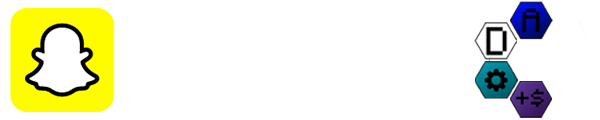
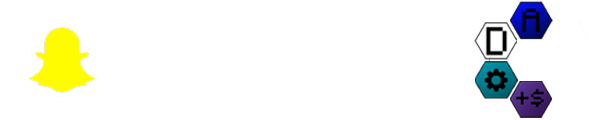
Hid useless info and changed snapchat image

Changed region(s): [[0.0, 0.05, 0.21, 0.95]]

diff --git a/catagories/Android/index.html b/catagories/Android/index.html
@@ -19,7 +19,7 @@
   <body>
     <a style="color:white; font-family:verdana;" href="../../" title="Home" class="home"><img src="../../images/darkmode sheet.png" alt="DarkMode-sheet-logo" width="192" height="108"></a>
     <h1 style="text-align:center;">Android Apps With DarkMode</h1>
-    <h4 style="color:white; font-family:verdana; text-align:center;">Free to use/add to</h3>
+    <!-- <h4 style="color:white; font-family:verdana; text-align:center;">A list of Software that includes Darkmode themes. Please suggests any software that is not included in list that has Darkmode</h4> -->
     <p style="text-align:center;"><a href="../../catagories/websites" class="website" title="Only show websites"><img class="rotate" src="../../images/icons/website.png" alt="Web Image" style="width:40px;height:40px;"></a> <a href="../../catagories/Windows" class="website" title="Only show Windows apps"><img class= "rotate" src="../../images/icons/windows.png" alt="Windows Image" style="width:40px;height:40px;"></a> <a href="../../catagories/MacOS" class="website" title="Only show Mac apps"><img class= "rotate" src="../../images/icons/mac.png" alt="Mac Image" style="width:40px;height:40px;"></a> <a href="../../catagories/IOS" class="website" title="Only show IOS apps"><img class= "rotate" src="../../images/icons/ios.png" alt="IOS Image" style="width:40px;height:40px;"></a> <a href="../../catagories/Android" class="website" title="Only show Android apps"><img class= "rotate" src="../../images/icons/andriod.png" alt="Andriod Image" style="width:40px;height:40px;"></a><a href="../../catagories/extensions/" class="website" title="Only show Browser Extensions"><img class="rotate" src="../../images/icons/extensions.png" alt="Puzzle Image" style="width:40px;height:40px;"></a></p>
     <p style="color:red; font-family:verdana; text-align: center;" id="android"></p>
     <input type="text" id="searchapp" onkeyup="searchSite()" placeholder="Search for an Android app...">

diff --git a/catagories/Windows/index.html b/catagories/Windows/index.html
@@ -19,7 +19,7 @@
   <body>
     <a style="color:white; font-family:verdana;" href="../../" title="Home" class="home"><img src="../../images/darkmode sheet.png" alt="DarkMode-sheet-logo" width="192" height="108"></a>
     <h1 style="text-align:center;">Windows Apps With DarkMode</h1>
-    <h4 style="color:white; font-family:verdana; text-align:center;">Free to use/add to</h3>
+    <!-- <h4 style="color:white; font-family:verdana; text-align:center;">A list of Software that includes Darkmode themes. Please suggests any software that is not included in list that has Darkmode</h4> -->
     <p style="text-align:center;"><a href="../../catagories/websites" class="website" title="Only show websites"><img class="rotate" src="../../images/icons/website.png" alt="Web Image" style="width:40px;height:40px;"></a> <a href="../../catagories/Windows" class="website" title="Only show Windows apps"><img class= "rotate" src="../../images/icons/windows.png" alt="Windows Image" style="width:40px;height:40px;"></a> <a href="../../catagories/MacOS" class="website" title="Only show Mac apps"><img class= "rotate" src="../../images/icons/mac.png" alt="Mac Image" style="width:40px;height:40px;"></a> <a href="../../catagories/IOS" class="website" title="Only show IOS apps"><img class= "rotate" src="../../images/icons/ios.png" alt="IOS Image" style="width:40px;height:40px;"></a> <a href="../../catagories/Android" class="website" title="Only show Android apps"><img class= "rotate" src="../../images/icons/andriod.png" alt="Andriod Image" style="width:40px;height:40px;"></a><a href="../../catagories/extensions/" class="website" title="Only show Browser Extensions"><img class="rotate" src="../../images/icons/extensions.png" alt="Puzzle Image" style="width:40px;height:40px;"></a></p>
     <p style="color:red; font-family:verdana; text-align: center;" id="windows"></p>
     <input type="text" id="searchapp" onkeyup="searchSite()" placeholder="Search for a Windows app...">

diff --git a/catagories/IOS/index.html b/catagories/IOS/index.html
@@ -19,7 +19,7 @@
   <body>
     <a style="color:white; font-family:verdana;" href="../../" title="Home" class="home"><img src="../../images/darkmode sheet.png" alt="DarkMode-sheet-logo" width="192" height="108"></a>
     <h1 style="text-align:center;">IOS Apps With DarkMode</h1>
-    <h4 style="color:white; font-family:verdana; text-align:center;">Free to use/add to</h3>
+    <!-- <h4 style="color:white; font-family:verdana; text-align:center;">A list of Software that includes Darkmode themes. Please suggests any software that is not included in list that has Darkmode</h4> -->
     <p style="text-align:center;"><a href="../../catagories/websites" class="website" title="Only show websites"><img class="rotate" src="../../images/icons/website.png" alt="Web Image" style="width:40px;height:40px;"></a> <a href="../../catagories/Windows" class="website" title="Only show Windows apps"><img class= "rotate" src="../../images/icons/windows.png" alt="Windows Image" style="width:40px;height:40px;"></a> <a href="../../catagories/MacOS" class="website" title="Only show Mac apps"><img class= "rotate" src="../../images/icons/mac.png" alt="Mac Image" style="width:40px;height:40px;"></a> <a href="../../catagories/IOS" class="website" title="Only show IOS apps"><img class= "rotate" src="../../images/icons/ios.png" alt="IOS Image" style="width:40px;height:40px;"></a> <a href="../../catagories/Android" class="website" title="Only show Android apps"><img class= "rotate" src="../../images/icons/andriod.png" alt="Andriod Image" style="width:40px;height:40px;"></a><a href="../../catagories/extensions/" class="website" title="Only show Browser Extensions"><img class="rotate" src="../../images/icons/extensions.png" alt="Puzzle Image" style="width:40px;height:40px;"></a></p>
     <p style="color:red; font-family:verdana; text-align: center;" id="iphone"></p>
     <input type="text" id="searchapp" onkeyup="searchSite()" placeholder="Search for an IOS app...">

diff --git a/index.html b/index.html
@@ -19,7 +19,7 @@
   <body>
     <a style="color:white; font-family:verdana;" href="./" title="Home" class="home"><img src="images/darkmode sheet.png" alt="DarkMode-sheet-logo" width="192" height="108"></a>
     <h1 style="text-align:center;">🔥 Software With DarkMode 🔥</h1>
-    <h4 style="color:white; font-family:verdana; text-align:center;">A list of Software that includes Darkmode themes. Please suggests any software that is not included in list that has Darkmode</h3>
+    <!-- <h4 style="color:white; font-family:verdana; text-align:center;">A list of Software that includes Darkmode themes. Please suggests any software that is not included in list that has Darkmode</h3> -->
     <p style="text-align:center;">
       <a href="catagories/websites" class="website" title="Only show websites"><img class="rotate" src="images/icons/website.png" alt="Web Image" style="width:40px;height:40px;"></a> 
       <a href="catagories/Windows" class="website" title="Only show Windows apps"><img class="rotate" src="images/icons/windows.png" alt="Windows Image" style="width:40px;height:40px;"></a> 

diff --git a/catagories/extensions/index.html b/catagories/extensions/index.html
@@ -19,7 +19,7 @@
   <body>
     <a style="color:white; font-family:verdana;" href="../../" title="Home" class="home"><img src="../../images/darkmode sheet.png" alt="DarkMode-sheet-logo" width="192" height="108"></a>
     <h1 style="text-align:center;">Browser Extensions with DarkMode</h1>
-    <h4 style="color:white; font-family:verdana; text-align:center;">Free to use/add to</h3>
+    <!-- <h4 style="color:white; font-family:verdana; text-align:center;">A list of Software that includes Darkmode themes. Please suggests any software that is not included in list that has Darkmode</h4> -->
     <p style="text-align:center;">
       <a href="../../catagories/websites" class="website" title="Only show websites"><img class="rotate" src="../../images/icons/website.png" alt="Web Image" style="width:40px;height:40px;"></a> 
       <a href="../../catagories/Windows" class="website" title="Only show Windows apps"><img class= "rotate" src="../../images/icons/windows.png" alt="Windows Image" style="width:40px;height:40px;"></a> 

diff --git a/catagories/MacOS/index.html b/catagories/MacOS/index.html
@@ -19,7 +19,7 @@
   <body>
     <a style="color:white; font-family:verdana;" href="../../" title="Home" class="home"><img src="../../images/darkmode sheet.png" alt="DarkMode-sheet-logo" width="192" height="108"></a>
     <h1 style="text-align:center;">Mac Apps With DarkMode</h1>
-    <h4 style="color:white; font-family:verdana; text-align:center;">Free to use/add to</h3>
+    <!-- <h4 style="color:white; font-family:verdana; text-align:center;">A list of Software that includes Darkmode themes. Please suggests any software that is not included in list that has Darkmode</h4> -->
     <p style="text-align:center;">
       <a href="../../catagories/websites" class="website" title="Only show websites"><img class="rotate" src="../../images/icons/website.png" alt="Web Image" style="width:40px;height:40px;"></a> 
       <a href="../../catagories/Windows" class="website" title="Only show Windows apps"><img class= "rotate" src="../../images/icons/windows.png" alt="Windows Image" style="width:40px;height:40px;"></a> 

diff --git a/catagories/websites/index.html b/catagories/websites/index.html
@@ -19,7 +19,7 @@
   <body>
     <a style="color:white; font-family:verdana;" href="../../" title="Home" class="home"><img src="../../images/darkmode sheet.png" alt="DarkMode-sheet-logo" width="192" height="108"></a>
     <h1 style="text-align:center;">Websites with DarkMode</h1>
-    <h4 style="color:white; font-family:verdana; text-align:center;">Free to use/add to</h3>
+    <!-- <h4 style="color:white; font-family:verdana; text-align:center;">A list of Software that includes Darkmode themes. Please suggests any software that is not included in list that has Darkmode</h4> -->
     <p style="text-align:center;">
       <a href="../../catagories/websites" class="website" title="Only show websites"><img class="rotate" src="../../images/icons/website.png" alt="Web Image" style="width:40px;height:40px;"></a> 
       <a href="../../catagories/Windows" class="website" title="Only show Windows apps"><img class= "rotate" src="../../images/icons/windows.png" alt="Windows Image" style="width:40px;height:40px;"></a> 
